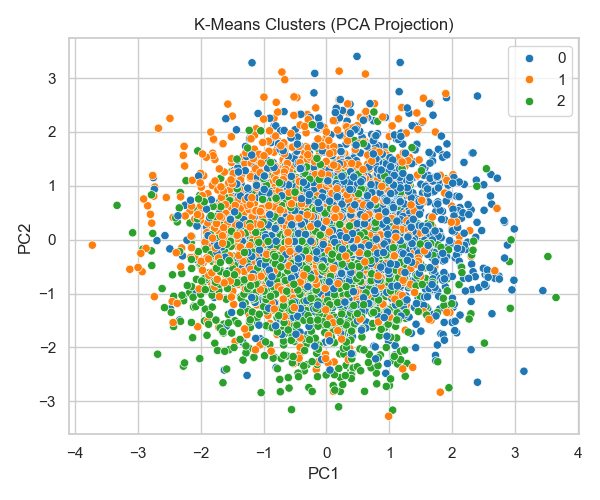
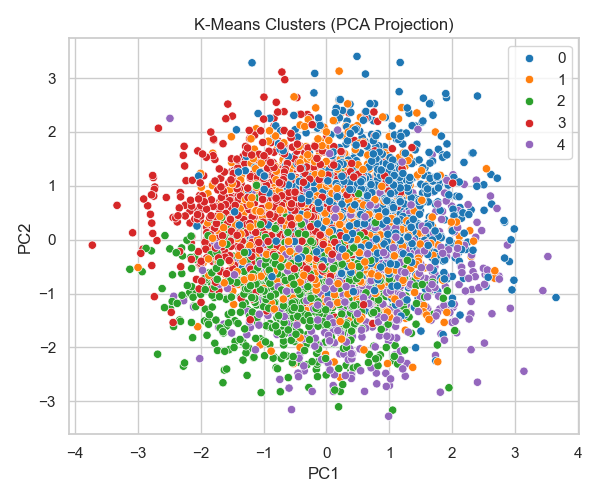
fixed k = 3 to k = 5

diff --git a/main.py b/main.py
@@ -174,8 +174,7 @@ plt.savefig("figures/kmeans_silhouette.png")
 plt.show()
 
 ##KMeans Clustering
-k = 5 # choose based on previous analysis of SS and elbow method graph. 
-best_k = 3
+best_k = 5 # choose based on previous analysis of SS and elbow method graph. 
 
 kmeans = KMeans(n_clusters=best_k, random_state=42)
 kmeans_labels = kmeans.fit_predict(X_scaled)
